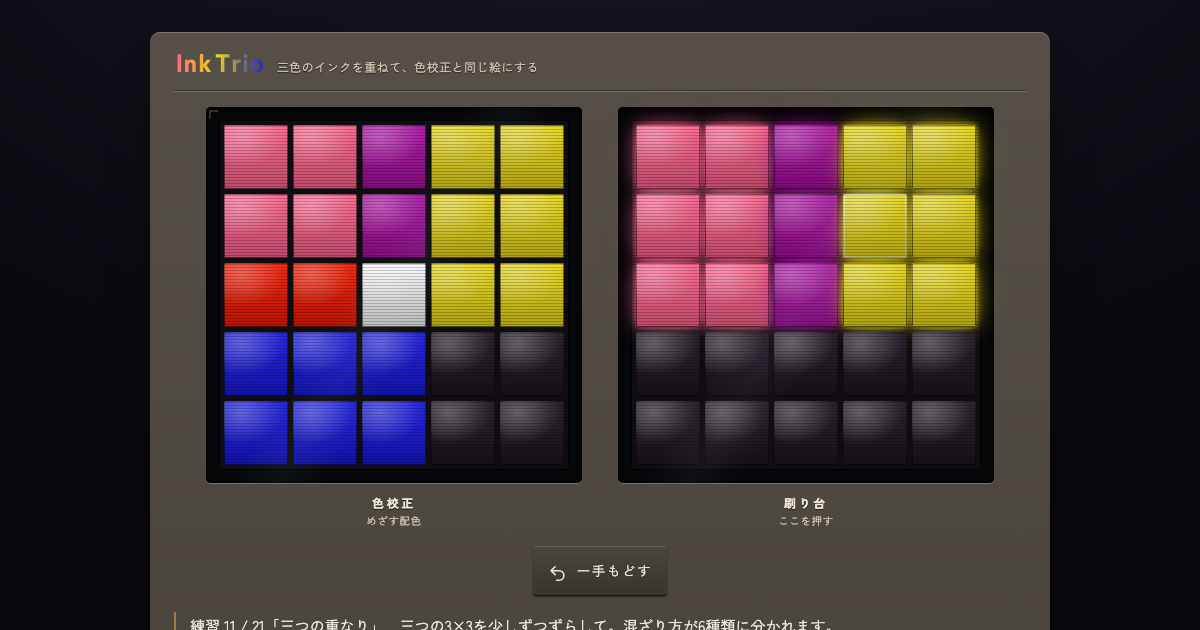
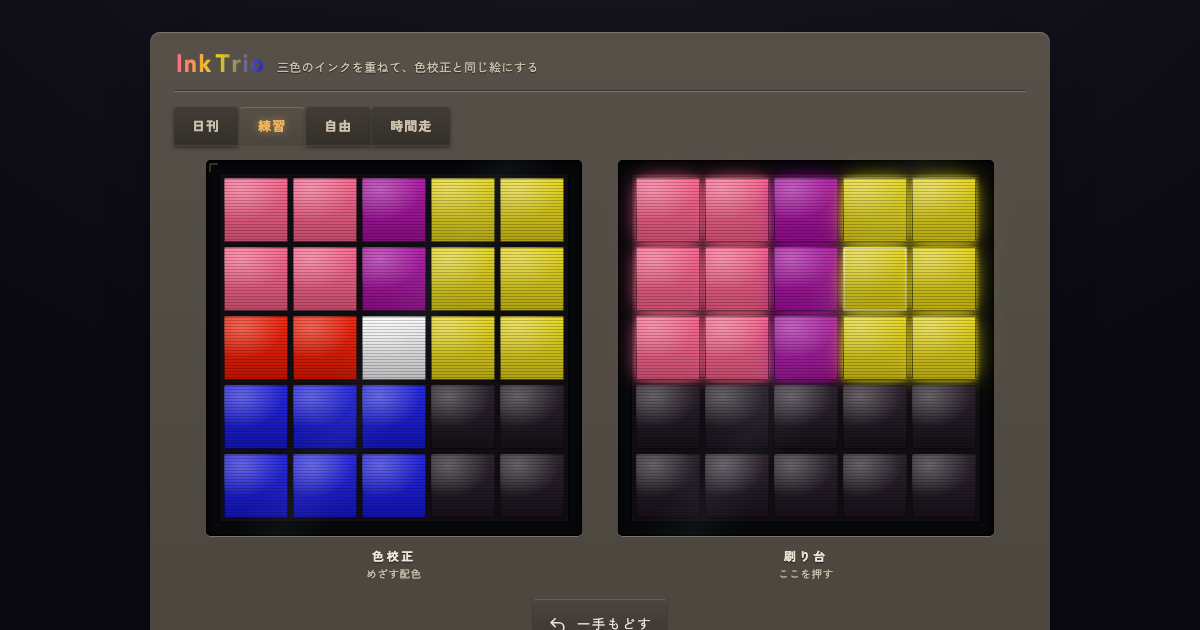
chore: 画面写真を撮り直し、生成と点検を道具にする
README の写真がタブ・号バー・時間走の入る前のままだった。撮り直したうえで、
同じことが起きないよう撮影そのものをリポジトリに入れた。

tools/make-shots.mjs は簡易サーバを自分で立て、押す手順と保存値まで込みで
docs/*.png を作る。手で撮ると「どの面のどこを押した写真か」が失われて再現できなく
なるのが、写真が一世代前で止まっていた原因。日刊と時間走の写真も足した（号は
日付で決まるので、撮った日の号数が写る。時間走の盤はプールから引くので毎回違う）。

tools/check-public.mjs は公開して困るものが混ざっていないか調べる。現在のツリー
ではなく git 履歴の全オブジェクトを見る ── 消したファイルも履歴には残るため。
鍵らしき文字列、手元の絶対パス、ファイル内のメールアドレス、危ない名前のファイル、
PNG に付いた撮影機材や位置情報を見て、最後にコミットの著者を必ず出す（GitHub で
公開されるので、止めはせず毎回目に入れる）。

固有の識別子は EXTRA='...' で外から渡す。スクリプトに書いた時点で、それ自体が
公開されてしまうため。実在する語を渡して検出されること（7件・182件・6件）と、
無い語では通ることの両方を確かめてある。

npm run で dev / icons / shots / check:public を引けるようにした。道具があっても
引けなければ使われない。

CLAUDE.md に「作り直せるものは手で作らない」を足した。

diff --git a/README.md b/README.md
@@ -6,7 +6,7 @@
 
 **▶ [ここで遊べます](https://m-masaki72.github.io/ink-trio/)**
 
-![左が目標の配色「色校正」、右が自分で押す「刷り台」。残り手数と次に乗るインクが下に出る](docs/play.png)
+![盤の上に日刊・練習・自由・時間走のタブ。左が目標の配色「色校正」、右が自分で押す「刷り台」。残り手数と次に乗るインクが下に出る](docs/play.png)
 
 ## 遊び方
 
@@ -43,6 +43,10 @@
 - 行き詰まったら「パス」で次へ。パスした問は走り終えたあとに見直せます
 - 記録に残せる走行は **1 日 3 回** まで。それ以降は練習走行になります
 - 5 分待たずに「やめる」で切り上げられます。そこまでの結果は記録されます
+
+![日刊のタブ。第◯号と「1 / 5問目」、経過時間が盤の上に出る](docs/daily.png)
+
+![時間走の走行中。残り時間と解けた問数、「パス」と「やめる」が盤の上に出る](docs/rush.png)
 
 記録は端末の中だけに残ります。外部への送信はありません。
 
@@ -92,6 +96,8 @@ node tools/make-icons.mjs
 単体テストは Node 標準のランナーだけで走ります（依存なし）。E2E は実ブラウザで確かめます。
 
 ```sh
+npm run dev                          # 手元で見る（http://localhost:8000）
+
 npm test                             # 単体。依存も install も不要
 node --test tests/rules.test.js      # 1ファイルだけ
 
@@ -105,6 +111,29 @@ npm run test:all                     # 両方
 |---|---|
 | 単体 `tests/` | 盤の規則、最短手数の算出、出題の保証、保存値の検証、配色の不変条件、集計、日刊号の再現性、時間走の勘定、共有テキスト、配るファイルの一覧と実物の食い違い |
 | E2E `e2e/` | 遊びの流れ（押す・戻す・使い切り・校了・自動遷移）、表示設定と保存、キーボード操作、壊れた保存値、保存不可環境、CSP、モジュールの読み込み、狭い画面、圏外での起動と操作、日刊号の進行と記録、時間走の走行 |
+
+## 道具
+
+どれもビルド工程ではありません。中身を変えたときだけ手で回します。
+
+```sh
+npm run icons          # icons/*.svg から PNG を焼く（意匠を変えたとき）
+npm run shots          # docs/*.png を撮り直す（画面が変わったとき）
+npm run check:public   # 公開して困るものが履歴に混ざっていないか調べる
+```
+
+`npm run shots` は簡易サーバを自分で立て、押す手順まで込みで写真を作ります。
+手で撮ると「どの面のどこを押した写真か」が失われて再現できなくなるためです。
+
+`npm run check:public` は現在のツリーではなく **git 履歴の全オブジェクト**を見ます
+（消したファイルも履歴には残るため）。鍵らしき文字列、手元の絶対パス、ファイル内の
+メールアドレス、危ない名前のファイル、PNG に付いた撮影機材や位置情報を調べ、
+コミットの著者（GitHub で公開されます）を最後に出します。
+固有の識別子も見たいときは、リポジトリに書かずに渡します。
+
+```sh
+EXTRA='社内ID|ホスト名' npm run check:public
+```
 
 ## 外部からの読み込み
 

diff --git a/CLAUDE.md b/CLAUDE.md
@@ -196,6 +196,24 @@ export const DIM = (1 - 0.20 / 3) * (1 - 0.26);
 `store` が `null` になる環境（localStorage が例外を投げる）では、保存を静かに諦めて
 UI にその旨を出しつつ遊びは続く。この分岐を消さない。
 
+## 作り直せるものは手で作らない
+
+`docs/*.png`（画面写真）と `icons/*.png`（絵柄）は生成物。**手で撮らない。**
+
+```sh
+npm run shots    # 画面が変わったとき
+npm run icons    # 意匠を変えたとき
+```
+
+手で撮ると「どの面のどこを押した写真か」が失われて再現できなくなる。実際に、
+タブと号バーを入れたあとも README の写真が一世代前のままだった時期がある。
+`tools/make-shots.mjs` には押す手順と保存値まで書いてあるので、画面を変えたら
+回すだけでよい。撮影が自動なら PNG に撮影機材や位置情報も乗らない。
+
+公開前に `npm run check:public` を回す。現在のツリーではなく **git 履歴の全
+オブジェクト**を見る（消したファイルも履歴には残る）。固有の識別子を調べたいときは
+`EXTRA='...'` で渡す ── スクリプトに書いた時点で、それ自体が公開される。
+
 ## テストの方針
 
 `tests/` は純ロジックを `node --test` で、`e2e/` は実ブラウザでの振る舞いを Playwright で検査する。
